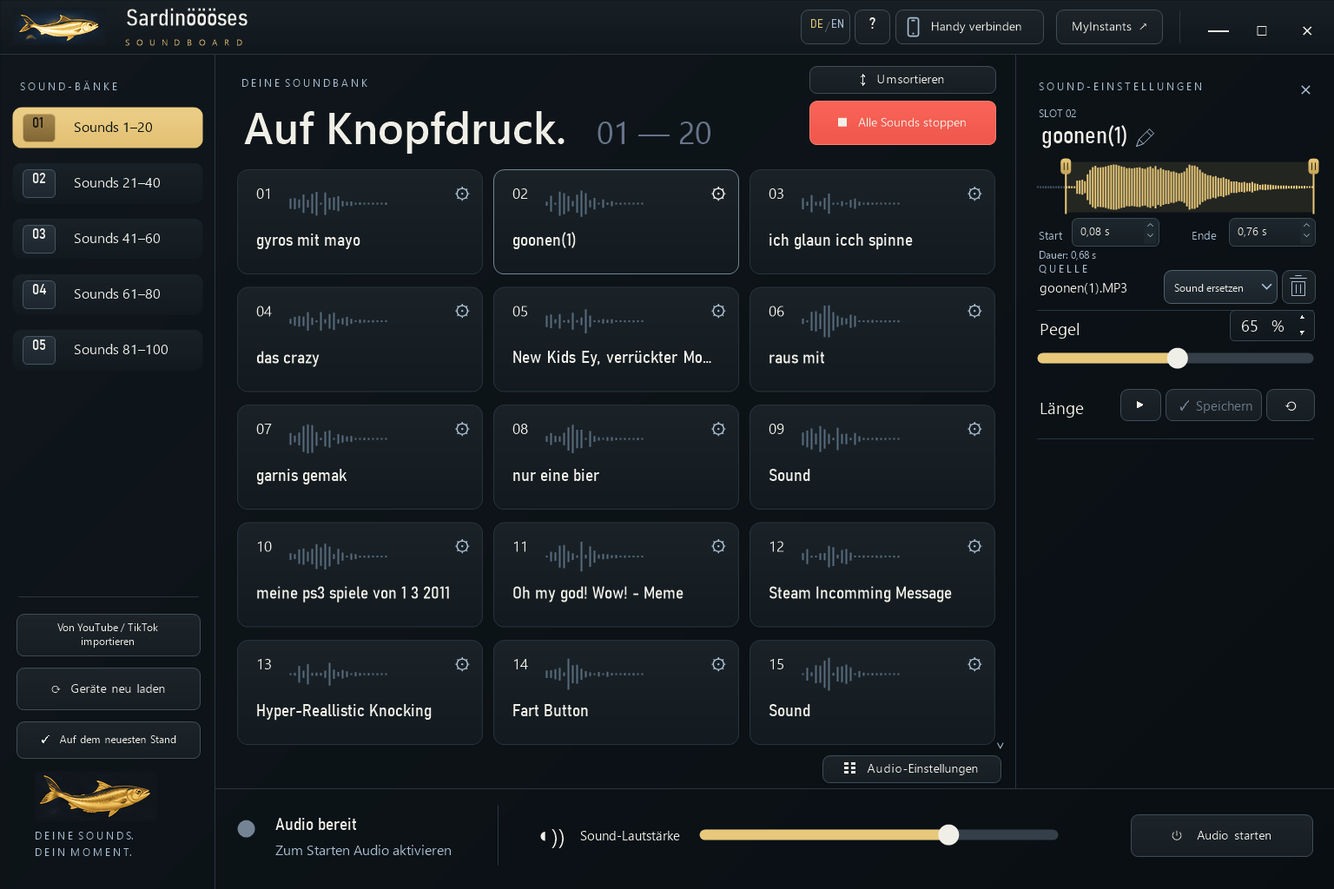
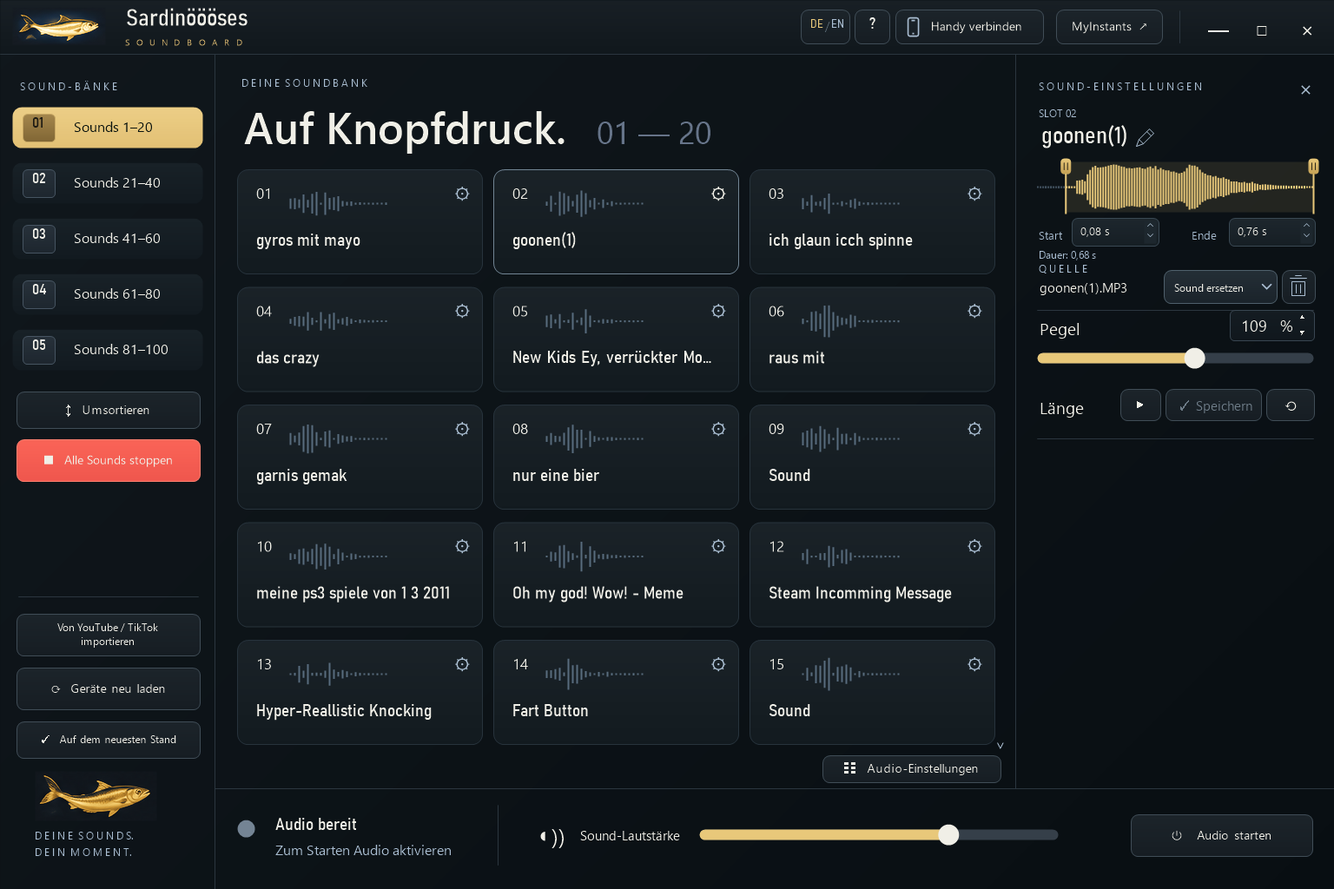
Move playback actions to banks sidebar, align tour and clear empty waveforms

diff --git a/windows/DiscordDeck/Tour.cs b/windows/DiscordDeck/Tour.cs
@@ -8,25 +8,32 @@ public sealed partial class MainForm {
  internal sealed record TourStep(string Title,string Text,RectangleF[] Spots);
  internal static TourStep[] TourSteps()=>new TourStep[]{
   new(T("Willkommen!","Welcome!"),T("Schön, dass du das Sardinöööses Soundboard nutzt. Diese kurze Tour zeigt dir in ein paar Schritten, wie alles funktioniert. Du kannst sie jederzeit über den „?“-Knopf oben wieder öffnen.","Thanks for using the Sardinöööses Soundboard. This short tour shows you how everything works in a few steps. You can reopen it any time with the “?” button at the top."),Array.Empty<RectangleF>()),
-  new(T("Sound-Bänke","Sound banks"),T("Hier wechselst du zwischen 5 Bänken mit je 20 Sounds – insgesamt 100 Plätze. Über Umsortieren oben ziehst du Sounds an neue Plätze. Während des Ziehens links über eine Bank halten, um sie zu wechseln. Das Handy übernimmt die Reihenfolge automatisch.","Switch between 5 banks with 20 sounds each – 100 slots in total. Reorder at the top lets you drag sounds to new positions. Hold over a bank on the left while dragging to switch banks. Your phone receives the order automatically."),new RectangleF[]{new(10,119,227,311)}),
-  new(T("Sound abspielen und auswählen","Play and select a sound"),T("Ein Klick auf die ganze Kachel spielt den Sound ab. Über ⚙ öffnest du seine Einstellungen rechts. Das X schließt sie. Der Stift rechts ändert den Anzeigenamen, ohne die Datei umzubenennen.","Click anywhere on a tile to play it. ⚙ opens its settings on the right; X closes them. The pencil on the right changes the display name without renaming the file."),new RectangleF[]{new(269,191,300,128)}),
-  new(T("Sound hinzufügen","Add a sound"),T("Über „Sound ersetzen“ wählst du eine Audiodatei oder einen MyInstants-Link. Links unten importierst du über „YouTube / TikTok“.","Use “Replace sound” to choose an audio file or a MyInstants link. Import via “YouTube / TikTok” at the bottom left."),new RectangleF[]{new(1186,264,334,70),new(15,703,219,56)}),
-  new(T("Länge festlegen","Set the length"),T("Zieh die zwei goldenen Marker mit der Maus auf Start und Ende. ▶ hört den Ausschnitt vorher an – nur auf deinem Kopfhörer. ✓ Speichern übernimmt ihn, ⟲ setzt auf die zuletzt gespeicherten Werte zurück. Genaue Sekunden kannst du direkt in Start und Ende unter der Wellenform eingeben.","Drag the two gold markers to the start and end. ▶ previews the part – only on your headphones. ✓ Save keeps it, ⟲ resets to the last saved values. Enter exact seconds directly in Start and End below the waveform."),new RectangleF[]{new(1186,176,334,96),new(1186,442,334,48)}),
+  new(T("Sound-Bänke","Sound banks"),T("Hier wechselst du zwischen 5 Bänken mit je 20 Sounds – insgesamt 100 Plätze. Über Umsortieren unter den Bänken ziehst du Sounds an neue Plätze. Während des Ziehens links über eine Bank halten, um sie zu wechseln. Das Handy übernimmt die Reihenfolge automatisch.","Switch between 5 banks with 20 sounds each – 100 slots in total. Reorder below the banks lets you drag sounds to new positions. Hold over a bank on the left while dragging to switch banks. Your phone receives the order automatically."),new RectangleF[]{new(10,119,227,311),new(15,447,219,50)}),
+  new(T("Sound abspielen und auswählen","Play and select a sound"),T("Ein Klick auf die ganze Kachel spielt den Sound ab. Leere Plätze öffnen die Quellenauswahl. Über ⚙ öffnest du seine Einstellungen rechts. Das X schließt sie. Der Stift rechts ändert den Anzeigenamen, ohne die Datei umzubenennen.","Click anywhere on a tile to play it. Empty slots open the source settings. ⚙ opens its settings on the right; X closes them. The pencil on the right changes the display name without renaming the file."),new RectangleF[]{new(269,191,300,128)}),
+  new(T("Sound hinzufügen","Add a sound"),T("Über „Sound ersetzen“ wählst du eine Audiodatei oder einen MyInstants-Link. Links unten importierst du über „YouTube / TikTok“.","Use “Replace sound” to choose an audio file or a MyInstants link. Import via “YouTube / TikTok” at the bottom left."),new RectangleF[]{new(1186,297,334,57),new(15,703,219,56)}),
+  new(T("Länge festlegen","Set the length"),T("Zieh die zwei goldenen Marker mit der Maus auf Start und Ende. ▶ hört den Ausschnitt vorher an – nur auf deinem Kopfhörer. ✓ Speichern übernimmt ihn, ⟲ setzt auf die zuletzt gespeicherten Werte zurück. Genaue Sekunden kannst du direkt in Start und Ende unter der Wellenform eingeben.","Drag the two gold markers to the start and end. ▶ previews the part – only on your headphones. ✓ Save keeps it, ⟲ resets to the last saved values. Enter exact seconds directly in Start and End below the waveform."),new RectangleF[]{new(1186,179,334,117),new(1186,442,334,48)}),
   new(T("Audio-Routing","Audio routing"),T("Über „Audio-Einstellungen“ unten rechts öffnest du das globale Routing. „Discord-Ausgabe“ ist das virtuelle Mikrofon (z. B. CABLE oder Steam Streaming). Stell in Discord genau dieses als Eingabegerät ein und schalte dort die Rauschunterdrückung aus. „Mikrofon beimischen“ schickt deine Stimme mit.","“Audio settings” at the bottom right opens global routing. “Discord output” is the virtual microphone (e.g. CABLE or Steam Streaming). Select exactly this one as the input device in Discord and turn off noise suppression there. “Mix in microphone” sends your voice too."),new RectangleF[]{new(947,867,211,37)}),
-  new(T("Loslegen","Get started"),T("Mit „Audio starten“ geht es los. Der Regler stellt die Lautstärke aller Sounds ein, „Alle Sounds stoppen“ beendet alles sofort. Esc schließt zuerst die Bearbeitung.","“Start audio” gets things going. The slider sets the volume of all sounds; “Stop all sounds” stops everything at once. Esc closes editing first."),new RectangleF[]{new(600,930,926,66),new(928,112,222,58)}),
+  new(T("Loslegen","Get started"),T("Mit „Audio starten“ geht es los. Der Regler stellt die Lautstärke aller Sounds ein, „Alle Sounds stoppen“ beendet alles sofort. Esc schließt zuerst die Bearbeitung.","“Start audio” gets things going. The slider sets the volume of all sounds; “Stop all sounds” stops everything at once. Esc closes editing first."),new RectangleF[]{new(600,930,926,66),new(15,502,219,56)}),
   new(T("Vom Handy steuern","Control from your phone"),T("„Handy verbinden“ zeigt einen Code. Gib ihn in der Android-App ein – PC und Handy müssen im selben WLAN sein.","“Connect phone” shows a code. Enter it in the Android app – PC and phone must be on the same Wi-Fi."),new RectangleF[]{new(1027,7,178,47)}),
   new(T("Anleitung und Sprache","Guide and language"),T("Über „?“ öffnest du diese Tour wieder, mit DE / EN stellst du die Sprache um. Viel Spaß!","“?” reopens this tour, DE / EN switches the language. Have fun!"),new RectangleF[]{new(922,7,106,47)}),
  };
- bool panelBeforeTour;
- void PrepareTourStep(){if(tourStep>=2&&tourStep<=4){if(!soundPanelOpen)SelectEdited(selectedSound);}else if(!panelBeforeTour)soundPanelOpen=false;deck.ClampScroll();}
- internal void StartTour(){panelBeforeTour=soundPanelOpen;tourStep=0;Show();WindowState=FormWindowState.Normal;Activate();deck.Focus();deck.Invalidate();}
+ bool panelBeforeTour;int bankBeforeTour,scrollBeforeTour;
+ void PrepareTourStep(){if(tourStep>=2&&tourStep<=4){if(!soundPanelOpen)SelectEdited(selectedSound);bank=selectedSound/20;scrollRow=Math.Clamp((selectedSound%20)/3-4,0,deck.MaxScroll);}else if(!panelBeforeTour)soundPanelOpen=false;deck.ClampScroll();}
+ internal void StartTour(){panelBeforeTour=soundPanelOpen;bankBeforeTour=bank;scrollBeforeTour=scrollRow;tourStep=0;Show();WindowState=FormWindowState.Normal;Activate();deck.Focus();deck.Invalidate();}
  internal void TourNext(){if(tourStep<0)return;if(tourStep>=TourSteps().Length-1)EndTour();else{tourStep++;PrepareTourStep();deck.Invalidate();}}
  internal void TourBack(){if(tourStep>0){tourStep--;PrepareTourStep();deck.Invalidate();}}
- internal void EndTour(){tourStep=-1;soundPanelOpen=panelBeforeTour;deck.ClampScroll();if(!settings.TourDone){settings.TourDone=true;settings.Save();}deck.Invalidate();}
+ internal void EndTour(){tourStep=-1;soundPanelOpen=panelBeforeTour;bank=bankBeforeTour;scrollRow=scrollBeforeTour;deck.ClampScroll();if(!settings.TourDone){settings.TourDone=true;settings.Save();}deck.Invalidate();}
  internal void SetLanguage(bool english){Lang.En=english;settings.Language=english?"en":"de";settings.Save();BuildTrayMenu();if(discordWarning!=null)CheckDiscord();status.Text=T("Sprache: Deutsch","Language: English");deck.Invalidate();}
  sealed partial class ReferenceDeck {
+  internal RectangleF[] TourSpots(int step){
+   return step switch{
+    2=>new[]{RectangleF.Inflate(TileBounds(owner.selectedSound),4,4)},
+    5=>new[]{new RectangleF(GridRight-215,866,213,39)},
+    _=>TourSteps()[step].Spots
+   };
+  }
   void DrawTour(Graphics g){
-   var steps=TourSteps();int n=owner.tourStep;if(n<0||n>=steps.Length)return;var step=steps[n];hits.Clear();
+   var steps=TourSteps();int n=owner.tourStep;if(n<0||n>=steps.Length)return;var step=steps[n] with{Spots=TourSpots(n)};hits.Clear();
    using(var dim=new Region(new RectangleF(0,0,1536,1024))){foreach(var s in step.Spots){using var p=Shape(s,12);dim.Exclude(p);}using var b=new SolidBrush(Color.FromArgb(185,4,8,11));g.FillRegion(b,dim);}
    foreach(var s in step.Spots){using var p=Shape(s,12);using var glow=new Pen(Color.FromArgb(90,232,200,122),7);g.DrawPath(glow,p);using var pen=new Pen(green,2);g.DrawPath(pen,p);}
    const float w=430;float h=MeasureBody(g,step.Text,w-56)+196;RectangleF card;

diff --git a/windows/DiscordDeck/LayoutTest.cs b/windows/DiscordDeck/LayoutTest.cs
@@ -1,0 +1,25 @@
+using System.Reflection;
+using System.Text.Json;
+using NAudio.Wave;
+namespace DiscordDeck;
+public sealed partial class MainForm {
+ public static void RunLayoutTest(){
+  var checks=new List<string>();var errors=new List<string>();MainForm? f=null;
+  void Check(bool ok,string name){if(!ok)throw new Exception(name);checks.Add(name);}
+  try{
+   Directory.CreateDirectory(Settings.Folder);var wav=Path.Combine(Settings.Folder,"layout.wav");using(var w=new WaveFileWriter(wav,WaveFormat.CreateIeeeFloatWaveFormat(44100,1)))w.WriteSamples(new float[44100*4],0,44100*4);
+   var settings=new Settings{TourDone=true,MixMicrophone=false,MonitorEnabled=false};settings.Slots[0].File=wav;settings.Save();AutoTour=false;f=new MainForm();void Prepare(Control c){_=c.Handle;foreach(Control child in c.Controls)Prepare(child);}Prepare(f);f.PerformLayout();var form=f;
+   Bitmap Paint(string? name=null){var b=new Bitmap(form.deck.Width,form.deck.Height);form.deck.DrawToBitmap(b,form.deck.ClientRectangle);if(name!=null)b.Save(Path.Combine(AppContext.BaseDirectory,name+".png"));return b;}
+   int WavePixels(Bitmap b,RectangleF r){int count=0;float sx=b.Width/1536f,sy=b.Height/1024f;for(int x=(int)((r.X+61)*sx);x<(r.X+177)*sx;x++)for(int y=(int)((r.Y+16)*sy);y<(r.Y+62)*sy;y++){var c=b.GetPixel(x,y);if(c.R>45&&c.B-c.R>25&&c.G-c.R>10)count++;}return count;}
+   using(var b=Paint("layout-closed")){Check(WavePixels(b,f.deck.TileBounds(0))>50,"Assigned tile retains its waveform");Check(WavePixels(b,f.deck.TileBounds(1))==0,"Empty tile has no invented waveform");}
+   for(int bank=1;bank<5;bank++){f.bank=bank;using var b=Paint();for(int j=0;j<20;j++)Check(WavePixels(b,f.deck.TileBounds(bank*20+j))==0,$"Empty slot {bank*20+j+1} has no waveform");}
+   f.bank=0;f.OpenSoundSettings(1);using(var b=Paint("layout-empty-panel")){int colored=0;for(int x=1195;x<1510;x++)for(int y=187;y<243;y++){var c=b.GetPixel(x,y);if(c.R>45&&c.B-c.R>25&&c.G-c.R>10)colored++;}Check(colored==0,"Empty settings panel has no invented waveform");}
+   f.CloseSoundSettings();using(var b=Paint()){}var actions=f.deck.AccessibilityObject;int Find(string text)=>Enumerable.Range(0,actions.GetChildCount()).First(i=>actions.GetChild(i)?.Name?.Contains(text)==true);
+   var reorder=actions.GetChild(Find("Umsortieren"))!;var local=f.deck.RectangleToClient(reorder.Bounds);Check(local.Top>426&&local.Right<247,"Reorder sits below all five banks");reorder.DoDefaultAction();Check(f.sorting,"Moved reorder button activates mode");f.ToggleSorting();f.Play(0);using(var b=Paint()){}actions=f.deck.AccessibilityObject;var stop=actions.GetChild(Find("Alle Sounds stoppen"))!;local=f.deck.RectangleToClient(stop.Bounds);Check(local.Top>490&&local.Right<247,"Stop sits below reorder in sidebar");stop.DoDefaultAction();Check(f.audio.Playing==0,"Moved stop button stops playback");
+   f.OpenSoundSettings(42);f.panelBeforeTour=false;f.bankBeforeTour=0;f.scrollBeforeTour=0;
+   for(int step=0;step<TourSteps().Length;step++){f.tourStep=step;f.PrepareTourStep();foreach(var r in f.deck.TourSpots(step))Check(r.Left>=0&&r.Top>=62&&r.Right<=1536&&r.Bottom<=1024||r.Top<62&&r.Bottom<=62,$"Tour step {step+1} highlight is within its UI area");using var b=Paint("layout-tour-"+(step+1));if(step==2)Check(f.deck.TourSpots(step)[0].Contains(f.deck.TileBounds(42)),"Tour follows the edited tile in its actual bank");if(step==5)Check(f.deck.TourSpots(step)[0].Contains(new RectangleF(f.deck.GridRight-211,870,205,31)),"Audio tutorial follows the actual settings button");}
+   f.EndTour();Check(!f.soundPanelOpen&&f.bank==0,"Tour restores prior panel and bank");f.ClientSize=new(1080,720);f.SetLanguage(true);using(var b=Paint("layout-small-en")){}Check(f.deck.AccessibilityObject.GetChildCount()>20,"Small English window keeps controls accessible");f.SetLanguage(false);
+  }catch(Exception e){errors.Add(e.ToString());}
+  finally{if(f!=null){f.exitRequested=true;f.Close();f.Dispose();}File.WriteAllText(Path.Combine(AppContext.BaseDirectory,"layout-test.json"),JsonSerializer.Serialize(new{ok=errors.Count==0,checks,errors},new JsonSerializerOptions{WriteIndented=true}));if(errors.Count>0)Environment.ExitCode=1;}
+ }
+}

diff --git a/windows/DiscordDeck/ReferenceDeck.cs b/windows/DiscordDeck/ReferenceDeck.cs
@@ -82,11 +82,11 @@ public sealed partial class MainForm {
 
    g.DrawImage(reference,new RectangleF(40,888,140,57),new RectangleF(40,888,140,57),GraphicsUnit.Pixel);TextAt(g,T("D E I N E  S O U N D S.","Y O U R  S O U N D S."),38,954,12,muted);TextAt(g,T("D E I N  M O M E N T.","Y O U R  M O M E N T."),38,973,12,muted);
    if(!owner.sorting)TextAt(g,T("D E I N E  S O U N D B A N K","Y O U R  S O U N D B A N K"),276,87,12,muted);TextAt(g,T("Auf Knopfdruck.","Push to play."),273,112,50,ink,true);TextAt(g,$"{owner.bank*20+1:00} — {owner.bank*20+20:00}",En?603:681,127,36,C(102,116,137));
-   Button(g,new(932,76,214,31),owner.sorting?T("✓   Fertig","✓   Done"):T("↕   Umsortieren","↕   Reorder"),owner.ToggleSorting);
-   Button(g,new(932,116,214,50),T("■   Alle Sounds stoppen","■   Stop all sounds"),()=>{owner.audio.StopSounds();owner.status.Text=T("Sounds gestoppt · Mikrofon bleibt an","Sounds stopped · microphone stays on");Invalidate();},true);
+   Button(g,new(19,451,211,42),owner.sorting?T("✓   Fertig","✓   Done"):T("↕   Umsortieren","↕   Reorder"),owner.ToggleSorting);
+   Button(g,new(19,506,211,48),T("■   Alle Sounds stoppen","■   Stop all sounds"),()=>{owner.audio.StopSounds();owner.status.Text=T("Sounds gestoppt · Mikrofon bleibt an","Sounds stopped · microphone stays on");Invalidate();},true);
    var clip=g.Save();g.SetClip(new RectangleF(263,190,GridRight-263,675));
    for(int j=0;j<20;j++){int index=owner.bank*20+j;var r=TileBounds(index);float x=r.X,y=r.Y;if(y<190||y>858)continue;var slot=owner.settings.Slots[index];bool active=owner.audio.IsPlaying(slot);bool edited=owner.soundPanelOpen&&index==owner.selectedSound;
-    Box(g,r,active?C(56,48,30):C(26,34,40),active?C(34,31,24):C(18,26,31),12,active?green:edited?C(114,133,148):C(39,51,60));TextAt(g,$"{index+1:00}",x+19,y+16,17,ink);Wave(g,x+61,y+39,116,42,index,active);TextAt(g,owner.sorting?"↕":"⚙",r.Right-36,y+12,22,edited?ink:muted);TextAt(g,slot.Name,x+19,y+72,20,ink,true,r.Width-38,34);
+    Box(g,r,active?C(56,48,30):C(26,34,40),active?C(34,31,24):C(18,26,31),12,active?green:edited?C(114,133,148):C(39,51,60));TextAt(g,$"{index+1:00}",x+19,y+16,17,ink);if(File.Exists(slot.File))Wave(g,x+61,y+39,116,42,index,active);TextAt(g,owner.sorting?"↕":"⚙",r.Right-36,y+12,22,edited?ink:muted);TextAt(g,slot.Name,x+19,y+72,20,ink,true,r.Width-38,34);
     
     if(owner.sorting)continue;
     var gear=new RectangleF(r.Right-42,y+7,33,33);Hit(gear,()=>owner.OpenSoundSettings(index),T("Einstellungen: ","Settings: ")+slot.Name);Hit(r,()=>{keyboardTile=index;if(string.IsNullOrEmpty(slot.File))owner.OpenSoundSettings(index);else owner.Try(()=>owner.Play(index));},slot.Name);
@@ -113,7 +113,7 @@ public sealed partial class MainForm {
   static readonly RectangleF WaveArea=new(1193,186,319,58);
   float WaveX(double s,double total)=>WaveArea.X+(float)(WaveArea.Width*s/total);
   void TrimWave(Graphics g,SoundSlot slot){
-   if(owner.PanelTrim() is not {} t){Wave(g,1195,215,317,53,owner.selectedSound,false);TimeFields(g);return;}
+   if(owner.PanelTrim() is not {} t){TimeFields(g);return;}
    var peaks=owner.Peaks(slot.File);float mid=WaveArea.Y+WaveArea.Height/2;
    for(int i=0;i<MainForm.PeakBins;i++){float x=WaveArea.X+1.5f+i*WaveArea.Width/MainForm.PeakBins;double s=(i+.5)*t.total/MainForm.PeakBins;bool inside=s>=t.from&&s<=t.to;
     float h=peaks==null?2:Math.Max(2,peaks[i]*(WaveArea.Height-6));using var p=new Pen(inside?green:C(66,82,96),2);g.DrawLine(p,x,mid-h/2,x,mid+h/2);}

diff --git a/windows/DiscordDeck/ReorderTest.cs b/windows/DiscordDeck/ReorderTest.cs
@@ -15,7 +15,7 @@ public sealed partial class MainForm {
   void Paint(string? file=null){using var b=new Bitmap(form.deck.Width,form.deck.Height);form.deck.DrawToBitmap(b,form.deck.ClientRectangle);if(file!=null)b.Save(Path.Combine(AppContext.BaseDirectory,file));}
   void Event(string method,int x,int y,MouseButtons button=MouseButtons.Left)=>form.deck.GetType().GetMethod(method,flags)!.Invoke(form.deck,new object[]{new MouseEventArgs(button,1,x,y,0)});
   void Drag(int x,int y,int tx,int ty){Event("OnMouseDown",x,y);Event("OnMouseMove",tx,ty);Paint();Event("OnMouseUp",tx,ty);Paint();}
-  var original=form.settings.Slots.ToArray();Paint();Event("OnMouseDown",1000,90);Event("OnMouseUp",1000,90);Check(form.sorting,"Top reorder button enters mode");Paint("reorder-mode.png");
+  var original=form.settings.Slots.ToArray();Paint();Event("OnMouseDown",120,471);Event("OnMouseUp",120,471);Check(form.sorting,"Sidebar reorder button enters mode");Paint("reorder-mode.png");
   Drag(400,275,700,410);Check(ReferenceEquals(form.settings.Slots[4],original[0]),"Mouse drag moves slot 1 to slot 5");Check(ReferenceEquals(form.settings.Slots[0],original[1]),"Other sounds shift without overwriting");Check(form.selectedSound==4,"Selection follows the moved sound");Check(form.settings.Slots[4].TrimStart==.1&&form.settings.Slots[4].Volume==.01f&&form.settings.Slots[4].SourceUrl.EndsWith("/1"),"File, gain, source and trim move together");
   Check(form.MoveSound(4,0)&&form.settings.Slots.SequenceEqual(original),"Moving backwards restores original order");
   Check(!form.MoveSound(-1,0)&&!form.MoveSound(0,100)&&!form.MoveSound(0,0),"Invalid and same-position moves ignored");
@@ -36,7 +36,7 @@ public sealed partial class MainForm {
   form.Dispatch("play",99);Check(form.audio.Running&&form.audio.Playing>0,"Existing play command plays the sound at its new position");form.audio.Stop();
   form.bank=0;form.scrollRow=0;form.SelectSound(0);Paint();Event("OnMouseDown",400,275);Event("OnMouseMove",700,410);form.deck.GetType().GetMethod("OnKeyDown",flags)!.Invoke(form.deck,new object[]{new KeyEventArgs(Keys.Escape)});var before=form.settings.Slots.ToArray();Event("OnMouseUp",700,410);Check(form.settings.Slots.SequenceEqual(before)&&form.sorting,"Escape cancels an active drag");
   form.deck.GetType().GetMethod("OnKeyDown",flags)!.Invoke(form.deck,new object[]{new KeyEventArgs(Keys.Escape)});Check(!form.sorting,"Escape exits reorder mode when idle");
-  form.ToggleSorting();Paint();Event("OnMouseDown",1000,90);Event("OnMouseUp",1000,90);Check(!form.sorting,"Done button exits mode");
+  form.ToggleSorting();Paint();Event("OnMouseDown",120,471);Event("OnMouseUp",120,471);Check(!form.sorting,"Done button exits mode");
   form.StartTour();Check(form.tourStep==0,"Tour still works");form.EndTour();
   form.ClientSize=new Size(1080,720);form.sorting=true;form.PerformLayout();Paint("reorder-small.png");
   Event("OnMouseDown",(int)(400*1080f/1536),(int)(275*720f/1024));Event("OnMouseMove",(int)(700*1080f/1536),(int)(410*720f/1024));Event("OnMouseUp",(int)(700*1080f/1536),(int)(410*720f/1024));Check(form.selectedSound==4,"Drag coordinates scale in the small window");

diff --git a/windows/DiscordDeck/Program.cs b/windows/DiscordDeck/Program.cs
@@ -6,7 +6,7 @@ static class Program {
  [STAThread] static void Main(string[] args){
  TestMode=args.Any(a=>a.EndsWith("-test",StringComparison.Ordinal));ApplicationConfiguration.Initialize();{var di=Array.IndexOf(args,"--download-test");if(di>=0){ImportTest.Download(args[(di+1)..]).GetAwaiter().GetResult();return;}}if(args.Contains("--design-test")){DesignTest.Run();return;}if(args.Contains("--preview")){TestMode=true;using var form=new MainForm();void Prepare(Control control){_=control.Handle;control.PerformLayout();foreach(Control child in control.Controls)Prepare(child);}Prepare(form);form.PerformLayout();var previewArg=args.FirstOrDefault(a=>a.StartsWith("--preview-slot="));if(int.TryParse(previewArg?[15..],out var previewSlot)&&previewSlot>=1&&previewSlot<=100)form.SelectSound(previewSlot-1);using var bitmap=new Bitmap(form.Width,form.Height);form.DrawToBitmap(bitmap,form.ClientRectangle);var previewUntil=DateTime.UtcNow.AddMilliseconds(300);while(DateTime.UtcNow<previewUntil){Application.DoEvents();Thread.Sleep(10);}form.DrawToBitmap(bitmap,form.ClientRectangle);bitmap.Save(Path.Combine(AppContext.BaseDirectory,"design-preview.png"));return;}if(args.Contains("--import-test")){ImportTest.Run().GetAwaiter().GetResult();return;}
  if(args.Contains("--discord-check")){var r=DiscordVoice.Read();File.WriteAllText(Path.Combine(AppContext.BaseDirectory,"discord-check.json"),JsonSerializer.Serialize(new{discord=r,outputs=AudioEngine.Devices().Where(d=>d.Direction=="Render"&&AudioEngine.IsVirtualOutput(d.Name)).Select(d=>new{d.Name,paired=MainForm.PairedCapture(d.Id)?.name,warning=MainForm.Evaluate(d.Id)})},new JsonSerializerOptions{WriteIndented=true}));return;}
- if(args.Contains("--mega-test")){MainForm.RunMegaTest();return;}if(args.Contains("--update-test")){UpdateTest.Run();return;}
+ if(args.Contains("--layout-test")){MainForm.RunLayoutTest();return;}if(args.Contains("--mega-test")){MainForm.RunMegaTest();return;}if(args.Contains("--update-test")){UpdateTest.Run();return;}
  if(args.Contains("--reorder-test")){MainForm.RunReorderTest();return;}
  if(args.Contains("--sound-settings-test")){MainForm.RunSoundSettingsTest();return;}
  if(args.Contains("--ui-test")){MainForm.RunUiTest();return;}

diff --git a/windows/DiscordDeck/MegaTest.cs b/windows/DiscordDeck/MegaTest.cs
@@ -54,7 +54,7 @@ public sealed partial class MainForm {
    f.OpenSoundSettings(1);f.RenameSound(moving,"Keyboard");Paint();var ao=f.deck.AccessibilityObject;Check(Enumerable.Range(0,ao.GetChildCount()).Select(i=>ao.GetChild(i)?.Name).Any(n=>n=="Soundname bearbeiten"),"Pencil exposed to accessibility");Check(Enumerable.Range(0,ao.GetChildCount()).Select(i=>ao.GetChild(i)?.Name).Any(n=>n=="Sound aus Slot entfernen"),"Trash exposed to accessibility");
    f.ClientSize=new(1080,720);f.PerformLayout();f.deck.OpenReplaceMenu();Pump(40);Check(f.RectangleToScreen(f.ClientRectangle).Contains(menu.Bounds),"Replace menu constrained at minimum size");menu.Close();Shot("mega-small");f.ClientSize=new(1536,1024);f.SetLanguage(true);Shot("mega-en");f.SetLanguage(false);Shot("mega-de");
    var saved=Settings.Load();Check(saved.Slots[0].File==""&&saved.Slots[1].Name=="Keyboard"&&saved.Slots[1].Id==moving.Id,"Reload preserves removal, names and order");using var reopened=new MainForm();Check(!reopened.soundPanelOpen,"Restart always closes sidebar");
-   Check(Updater.Current==new Version(1,4,1,0),"Release version is 1.4.1");Check(f.updateTimer.Interval==600000,"Automatic update interval is ten minutes");
+   Check(Updater.Current==new Version(1,4,2,0),"Release version is 1.4.2");Check(f.updateTimer.Interval==600000,"Automatic update interval is ten minutes");
   }catch(Exception e){errors.Add(e.ToString());}
   finally{if(f!=null){f.exitRequested=true;f.Close();f.Dispose();}File.WriteAllText(Path.Combine(AppContext.BaseDirectory,"mega-test.json"),JsonSerializer.Serialize(new{ok=errors.Count==0,checks,errors},new JsonSerializerOptions{WriteIndented=true}));if(errors.Count>0)Environment.ExitCode=1;}
  }

diff --git a/windows/DiscordDeckSetup/Program.cs b/windows/DiscordDeckSetup/Program.cs
@@ -8,7 +8,7 @@ using System.Text.Json;
 using Microsoft.Win32;
 
 static class Program {
- const string AppName="Sardinöööses Soundboard",Version="1.4.1";
+ const string AppName="Sardinöööses Soundboard",Version="1.4.2";
  static readonly Color Bg=Color.FromArgb(13,20,26),Card=Color.FromArgb(20,28,35),Stroke=Color.FromArgb(38,49,58),Gold=Color.FromArgb(232,200,122),Fg=Color.FromArgb(241,244,246),Muted=Color.FromArgb(139,151,161),Red=Color.FromArgb(240,96,90);
  // Setup-Sprache folgt der Windows-Sprache: Deutsch auf deutschem Windows, sonst Englisch. SSB_LANG=de|en erzwingt eine.
  public static readonly bool De=Environment.GetEnvironmentVariable("SSB_LANG")!="en";

diff --git a/README.md b/README.md
@@ -8,6 +8,8 @@ Windows 10/11 (64 Bit). Der Installer enthält .NET-Laufzeit, Audio-Bibliotheken
 
 Neue Funktionen: Gold-Design, Deutsch/Englisch (DE / EN), Einführung beim ersten Öffnen und erneut über ?, Schnittmarker mit Mausbedienung, Vorhören und Speichern. Android enthält eine eigene Kurzanleitung. Die Update-Funktion unten links und im Infobereich lädt das neueste stabile GitHub-Release, prüft SHA-256 und öffnet den Installer. Sounds und Einstellungen bleiben erhalten.
 
+**Neu in 1.4.2:** Umsortieren und Alle Sounds stoppen stehen unter den fünf Bänken. Leere Slots zeigen keine zufällige Wellenform mehr. Die Tour-Markierungen folgen dem aktuellen Layout, der sichtbaren Kachel und der Breite des Soundbereichs.
+
 **Neu in 1.4.1:** Die Installation über den Update-Knopf ist repariert. Das Setup gibt sein geerbtes Arbeitsverzeichnis frei, bevor es den Programmordner austauscht. Falls ein 1.4.0-Setup noch mit einer Dateisperre offen ist, dieses Fenster zuerst schließen und den aktuellen Installer starten.
 
 **Neu in 1.4.0:** Die ganze Soundkachel spielt ab; das Zahnrad öffnet ausschließlich die Bearbeitung. Die Seitenleiste startet geschlossen und lässt sich per X schließen. Der Soundbereich nutzt dann die freie Breite. Gold markiert nur tatsächlich spielende Sounds. **Umsortieren** bleibt erhalten, auch zwischen Bänken und mit automatischer Übernahme auf dem Handy.

diff --git a/RELEASE-NOTES-1.4.2.md b/RELEASE-NOTES-1.4.2.md
@@ -1,0 +1,10 @@
+## Oberfläche und Einführung korrigiert
+
+- Umsortieren/Fertig und Alle Sounds stoppen stehen jetzt links unter den fünf Soundbänken. Beide bleiben auch mit geöffneter Sound-Bearbeitung erreichbar.
+- Leere oder nicht mehr vorhandene Soundquellen zeigen keine erfundene Wellenform mehr, weder auf der Kachel noch im Einstellungsbereich.
+- Die Einführung verwendet die tatsächliche Kachelposition und die aktuelle Breite des Soundbereichs. Markierungen für Quelle, Schnittfelder, globale Audio-Einstellungen und Stoppen passen zum aktuellen Layout. Bank, Scrollposition und Seitenleiste werden nach der Tour wiederhergestellt.
+- Hinweise auf die Position von Umsortieren sind aktualisiert, auf Deutsch und Englisch.
+
+Geprüft: eigener Layouttest für leere Plätze in allen Bänken, leere Seitenleiste, Position/Funktion beider verschobenen Knöpfe und passende Tour-Markierungen. Zusätzlich die bisherigen Prüfungen für Umsortieren, 72 Integrationsfälle und die 24 Tour-Prüfungen. Der in 1.4.1 behobene Installationsfehler bleibt korrigiert.
+
+Android bleibt unverändert bei 1.4.0 (versionCode 9). Das Update erscheint über den bestehenden PC-Updater; Sounds und Einstellungen bleiben erhalten.
